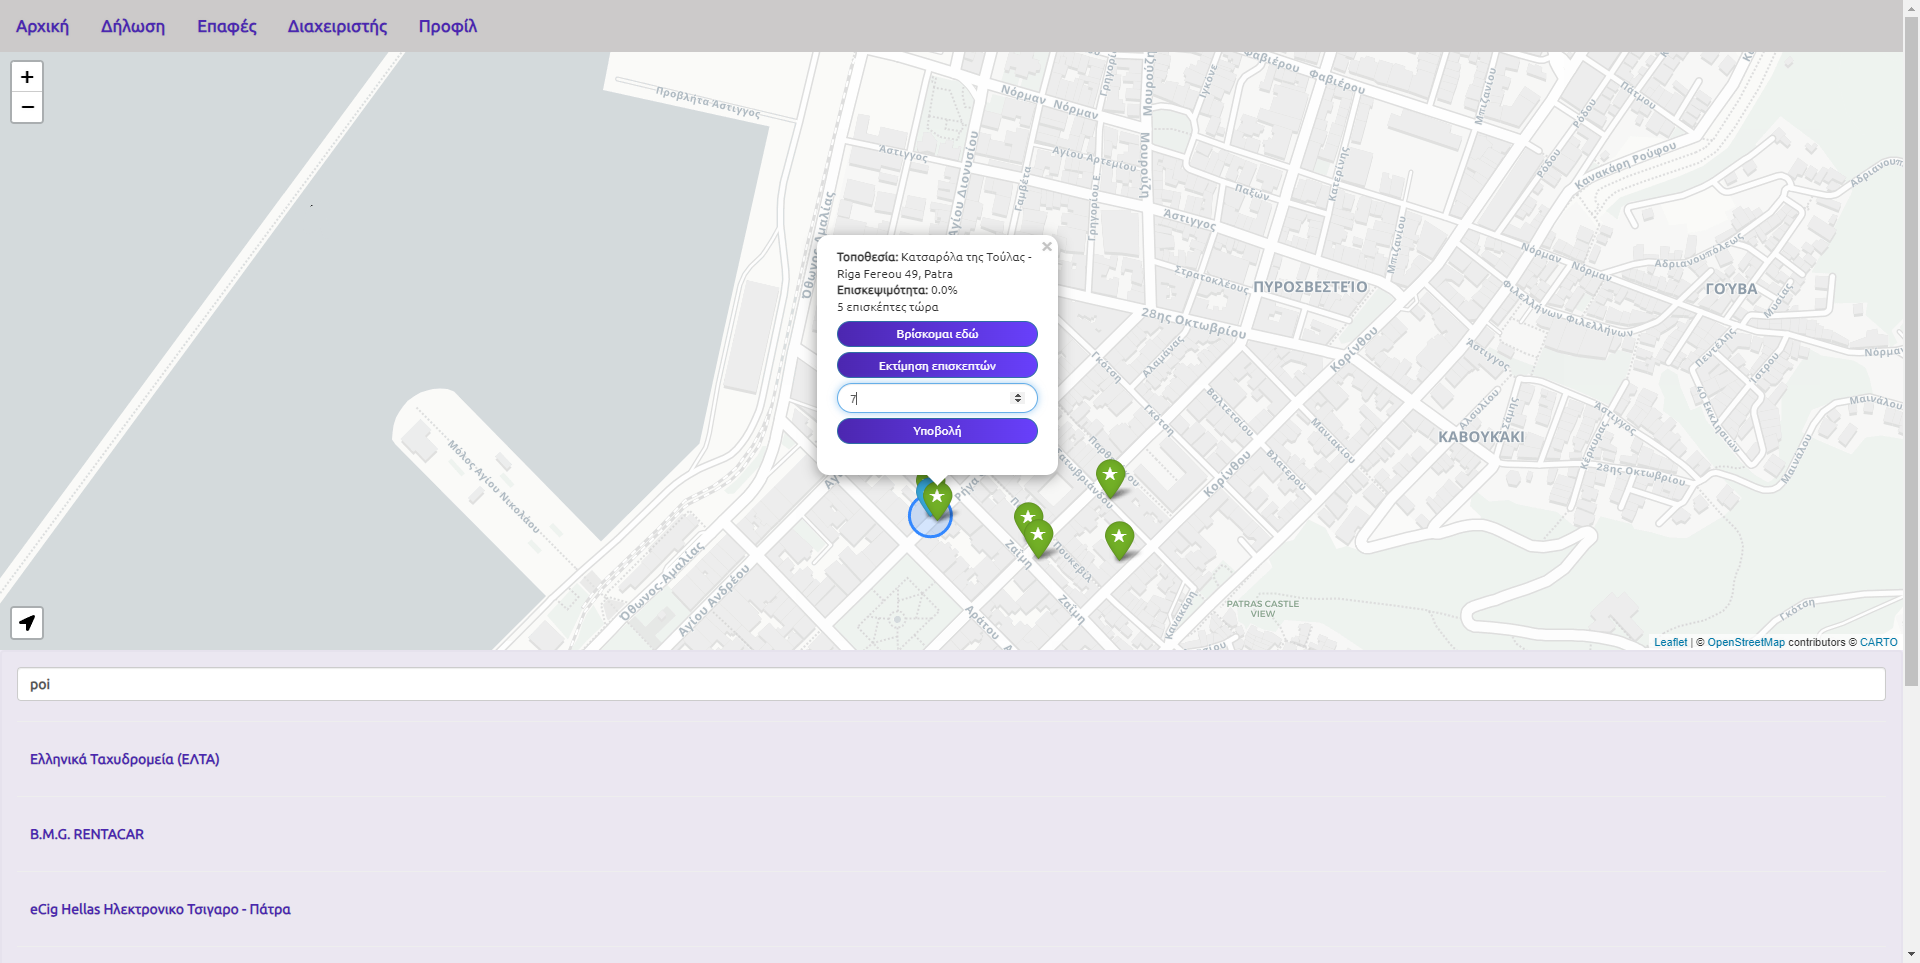
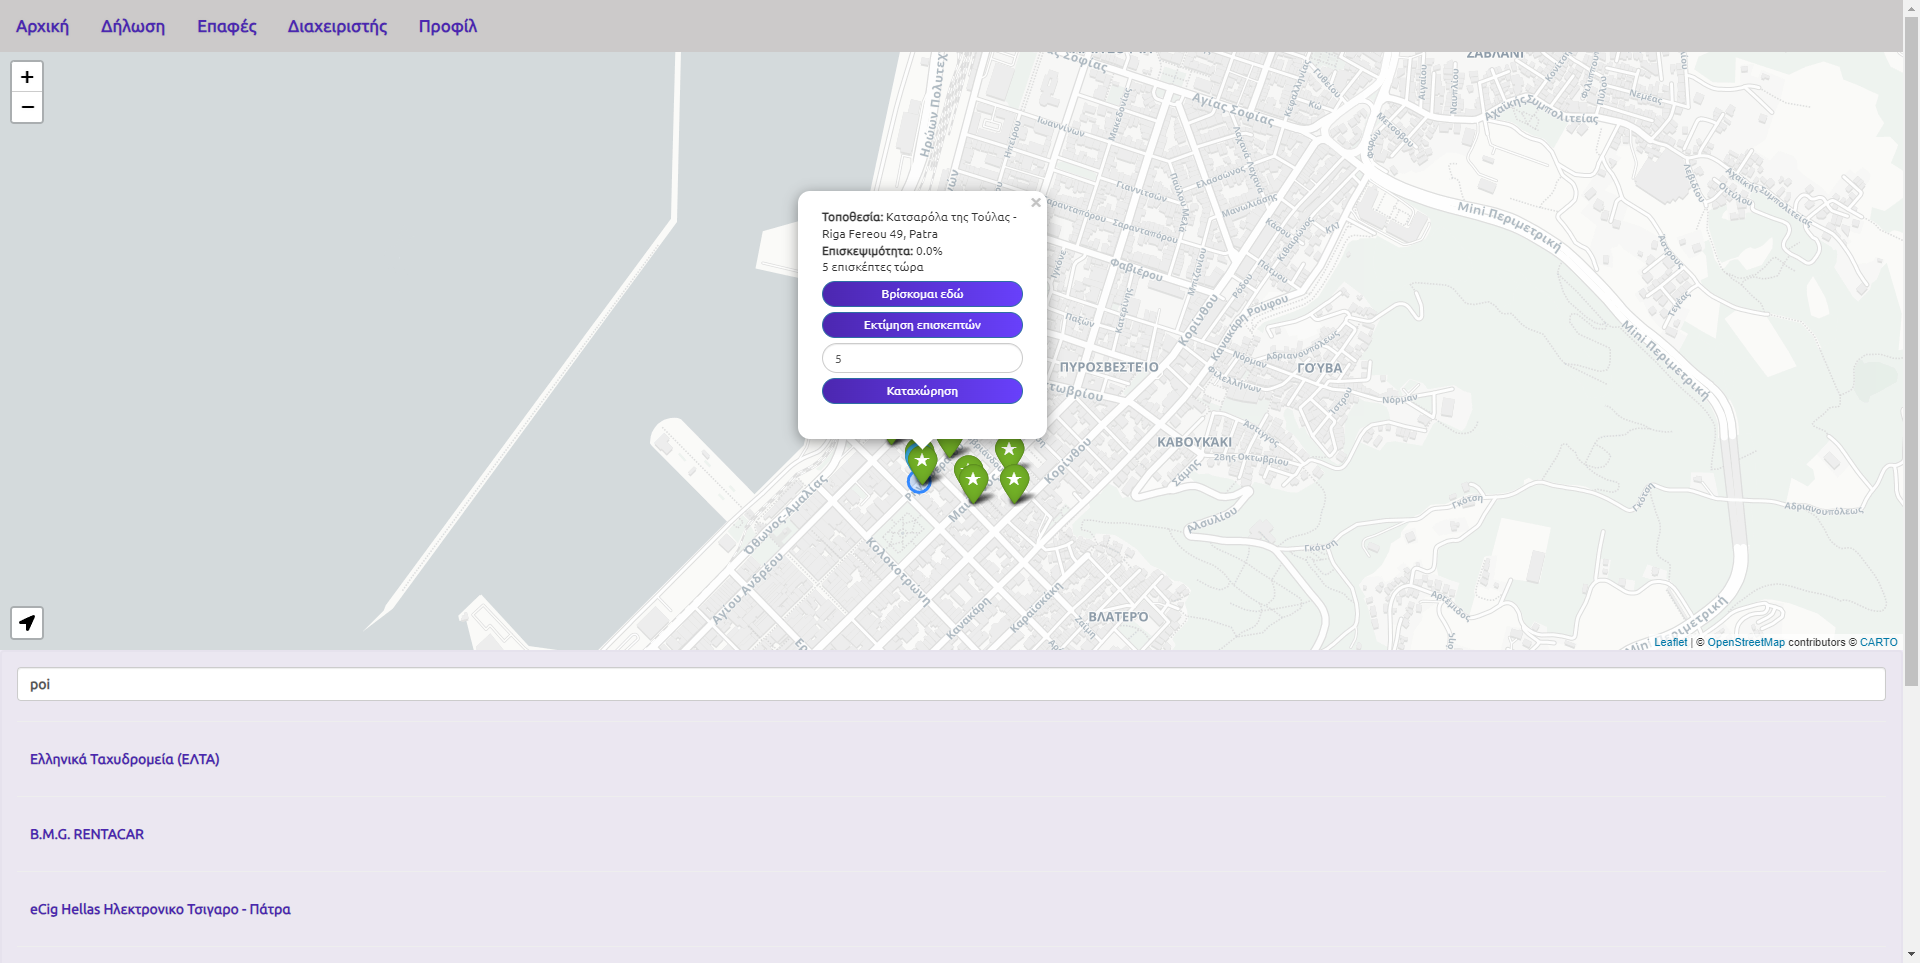
changed visitors input box style

diff --git a/public/map.js b/public/map.js
@@ -165,11 +165,11 @@ function createPopupContent(POIdata, averagePop3hr) {
             <form action="/visit" method="POST" onsubmit="return confirm('Είστε σίγουροι ότι θέλετε να καταχωρήσετε την επίσκεψη;');">
                 <button style="padding: 3px; margin-top: 5px; background: linear-gradient(to right, #4c27b0, #6840fb); border-radius: 15px;" class="btn btn-primary btn-block btn-sm" type="button" data-toggle="collapse" data-target="#demo2_${POIdata.id}"/>Εκτίμηση επισκεπτών</button>
                 <div id="demo2_${POIdata.id}" class="collapse">
-                    <input style="height: 30px; margin-top: 5px; border-radius: 15px; font-size: 12px" class="form-control" type="number" min="1" name="ppl" id="ppl" />
+                    <input placeholder="Εισάγετε αριθμό" style="height: 30px; margin-top: 5px; border-radius: 15px; font-size: 12px" class="form-control" type="number" min="1" name="ppl" id="ppl" />
                     <input class="form-control" type="hidden" name="poiname" id="poiname" value="${POIdata.name}" />
                     <input class="form-control" type="hidden" name="poiid" id="poiid" value="${POIdata.id}" />
                 </div>
-                <input style="padding: 3px; margin-top: 5px; background: linear-gradient(to right, #4c27b0, #6840fb); border-radius: 15px;" class="btn btn-primary btn-block btn-sm" type="submit" name="submit" id="submit" value="Υποβολή"/><br/>
+                <input style="padding: 3px; margin-top: 5px; background: linear-gradient(to right, #4c27b0, #6840fb); border-radius: 15px;" class="btn btn-primary btn-block btn-sm" type="submit" name="submit" id="submit" value="Καταχώρηση"/><br/>
             </form>
         </div>`;
 }

diff --git a/public/style.css b/public/style.css
@@ -334,3 +334,7 @@ margin-bottom: 30px;
   top: 40;
   margin-left: 50;
 }
+
+.leaflet-popup-content-wrapper {
+  padding: 5px
+}
